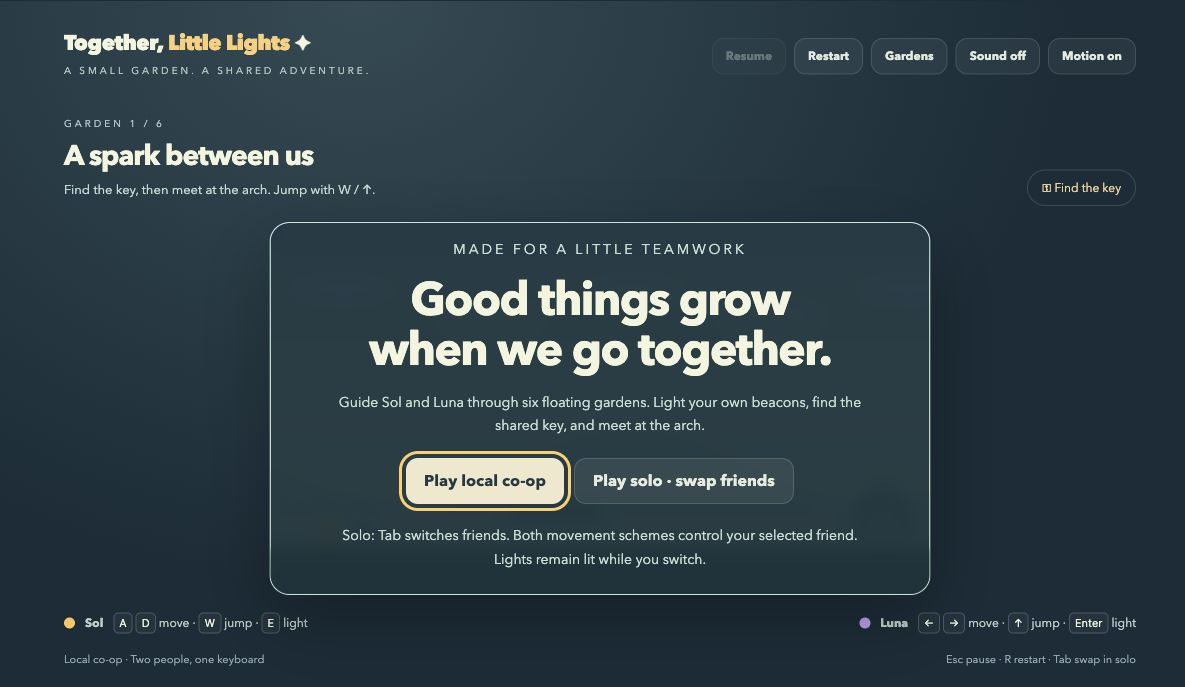
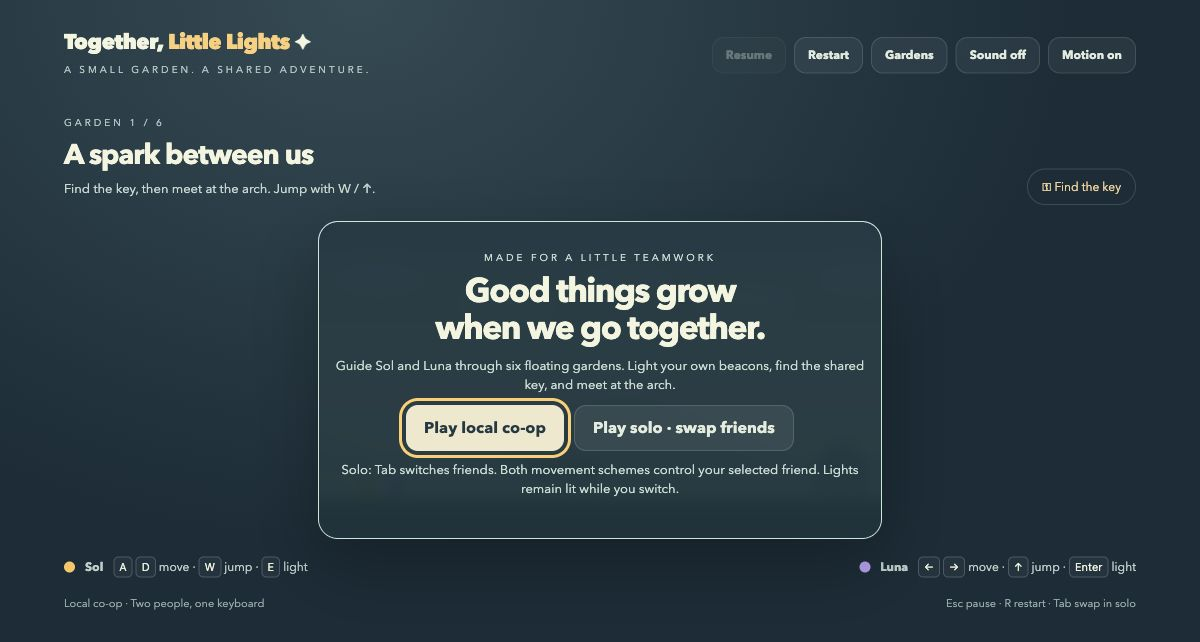
fix: fit desktop menus and finalize visible keyboard QA

diff --git a/src/style.css b/src/style.css
@@ -127,7 +127,7 @@ canvas {
   display: flex;
   align-items: center;
   justify-content: center;
-  padding: 24px;
+  padding: 16px;
   text-align: center;
   backdrop-filter: blur(8px);
 }
@@ -138,22 +138,28 @@ canvas {
   max-width: 530px;
 }
 .card h2 {
-  font-size: clamp(26px, 4vw, 46px);
+  font-size: clamp(26px, 2.8vw, 38px);
   letter-spacing: -1.5px;
   line-height: 1.1;
-  margin: 14px 0;
+  margin: 10px 0;
 }
 .card p {
   color: #c9ded5;
-  line-height: 1.7;
-  font-size: 14px;
+  line-height: 1.45;
+  font-size: 13px;
+  margin: 10px 0;
 }
 .actions {
   display: flex;
   flex-wrap: wrap;
   justify-content: center;
   gap: 10px;
-  margin: 20px 0;
+  margin: 10px 0;
+}
+.card > .eyebrow {
+  font-size: 10px;
+  line-height: 1.2;
+  margin: 0;
 }
 .secondary {
   background: #ffffff12;

diff --git a/docs/QA.md b/docs/QA.md
@@ -42,3 +42,5 @@ Screenshots: [local co-op](evidence/co-op.jpg), [planter](evidence/planter.jpg),
 ## Limitations
 
 No online networking. No stacking. No physical two-person keyboard-rollover or physical mobile multitouch session. Small portrait screen makes the playfield compact; landscape recommended. Sound is synthesized feedback only; speaker output not listened to. Session server requires restart after logout/reboot and is loopback-only. Sidebar project registration is unavailable through the supported tools in this environment.
+
+Final presentation retest: desktop menus and playfield fit the current Chrome viewport. Focused Sound/Motion controls activate with Enter through their normal DOM behavior (sound on and motion reduced both visibly confirmed), then reload restores default mute/start screen. Default local co-op garden one completed with independent Sol and Luna controls. Final suite: 23/23 passing; production build and type checking pass; npm audit reports zero vulnerabilities.
